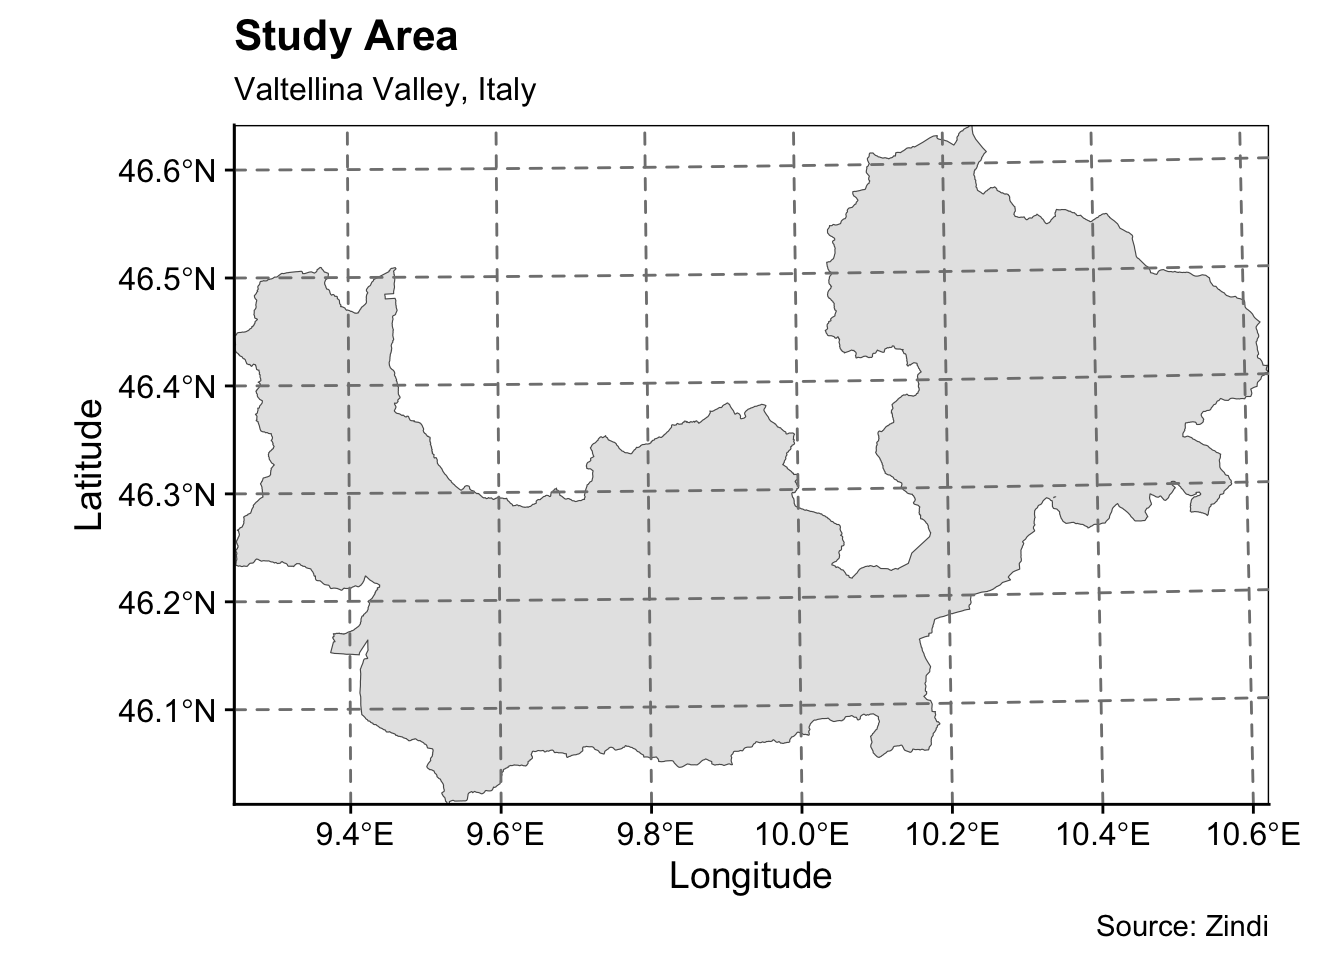
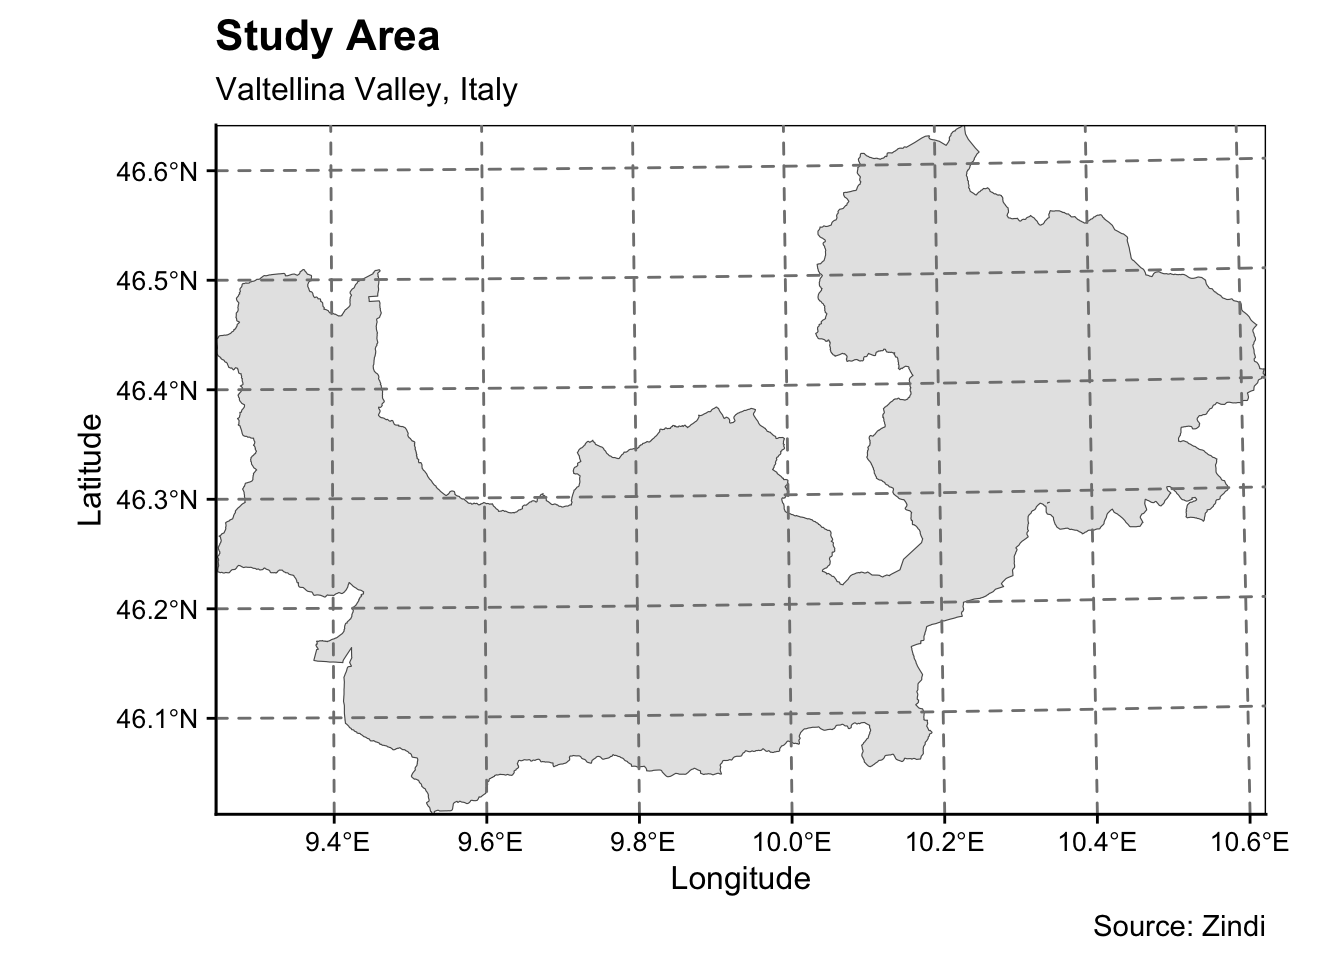
fixed visualisation errors

diff --git a/_site/project.html b/_site/project.html
@@ -248,7 +248,11 @@ pre > code.sourceCode > span > a:first-child::before { text-decoration: underlin
 <span id="cb3-11"><a href="#cb3-11" aria-hidden="true" tabindex="-1"></a>                                        <span class="at">linewidth =</span> <span class="fl">0.5</span>),</span>
 <span id="cb3-12"><a href="#cb3-12" aria-hidden="true" tabindex="-1"></a>        <span class="at">panel.grid.minor =</span> <span class="fu">element_blank</span>(),</span>
 <span id="cb3-13"><a href="#cb3-13" aria-hidden="true" tabindex="-1"></a>        <span class="at">panel.background =</span> <span class="fu">element_rect</span>(<span class="at">fill=</span><span class="cn">NA</span>,<span class="at">color =</span> <span class="st">'black'</span>),</span>
-<span id="cb3-14"><a href="#cb3-14" aria-hidden="true" tabindex="-1"></a>        <span class="at">panel.ontop =</span> <span class="cn">TRUE</span>)</span></code><button title="Copy to Clipboard" class="code-copy-button"><i class="bi"></i></button></pre></div>
+<span id="cb3-14"><a href="#cb3-14" aria-hidden="true" tabindex="-1"></a>        <span class="at">panel.ontop =</span> <span class="cn">TRUE</span>,</span>
+<span id="cb3-15"><a href="#cb3-15" aria-hidden="true" tabindex="-1"></a>        <span class="at">axis.title.x =</span> <span class="fu">element_text</span>(<span class="at">size =</span> <span class="dv">12</span>), </span>
+<span id="cb3-16"><a href="#cb3-16" aria-hidden="true" tabindex="-1"></a>        <span class="at">axis.title.y =</span> <span class="fu">element_text</span>(<span class="at">size =</span> <span class="dv">12</span>),</span>
+<span id="cb3-17"><a href="#cb3-17" aria-hidden="true" tabindex="-1"></a>        <span class="at">axis.text.x =</span> <span class="fu">element_text</span>(<span class="at">size =</span> <span class="dv">10</span>),</span>
+<span id="cb3-18"><a href="#cb3-18" aria-hidden="true" tabindex="-1"></a>        <span class="at">axis.text.y =</span> <span class="fu">element_text</span>(<span class="at">size =</span> <span class="dv">10</span>))</span></code><button title="Copy to Clipboard" class="code-copy-button"><i class="bi"></i></button></pre></div>
 <div class="cell-output-display">
 <p><img src="project_files/figure-html/unnamed-chunk-3-1.png" class="img-fluid" width="672"></p>
 </div>
